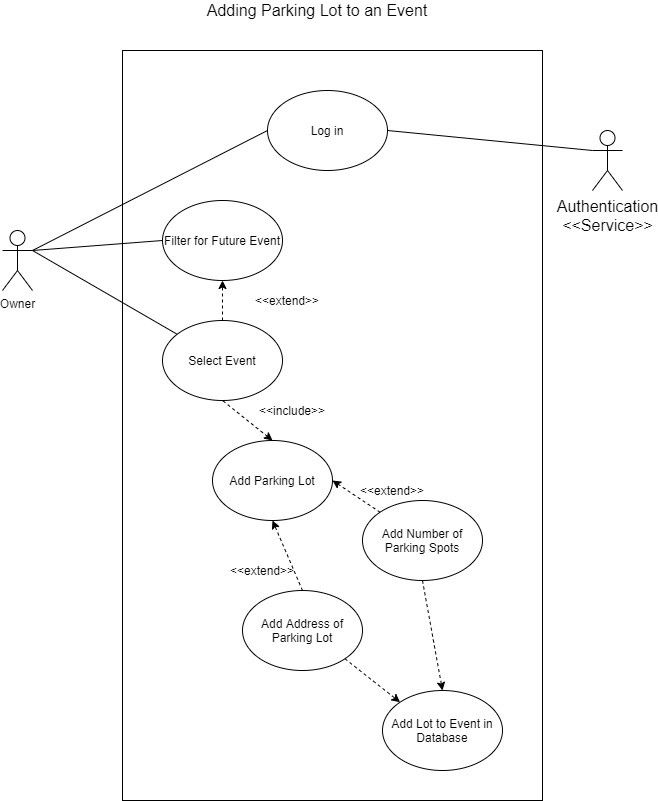
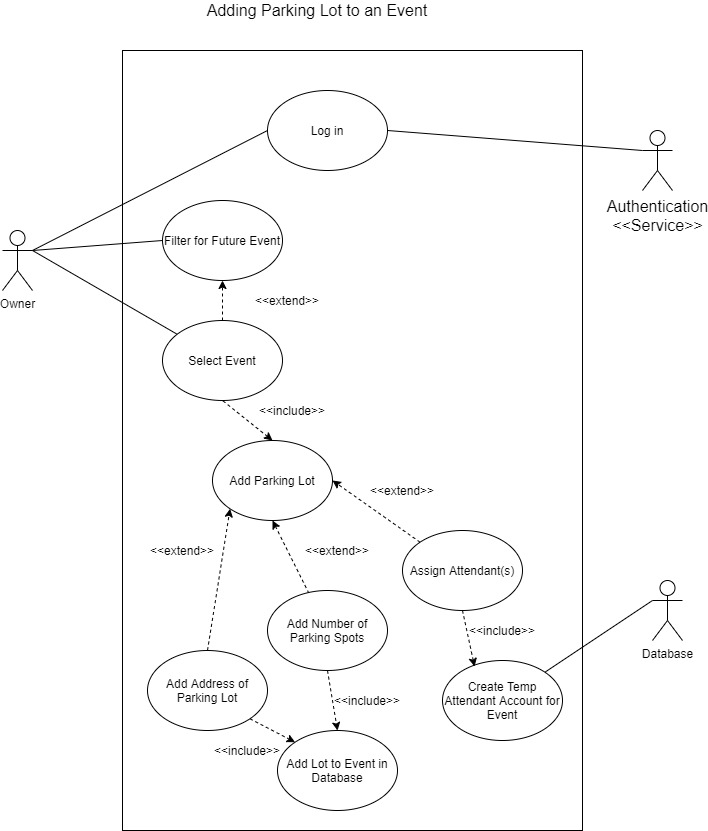
Update to add parking to event, and creation of requirements definition document.

diff --git a/docs/requirementsDefinition.md b/docs/requirementsDefinition.md
@@ -1,0 +1,56 @@
+# Introduction and Context
+
+
+# Users and Their Goals
+## Customer
+Purchase a parking spot for an event. 
+Get directions to their parking spot.
+Receive QR code as proof of purchase.
+Add money to their account.
+
+## Attendant
+Authenticate customer with QR code or from list.
+Show customer where to park.
+
+## Owner
+Add parking lot to Event.
+Receive income from application.
+
+## Manager
+Add events to database.
+Check revenue.
+Pay owners.
+
+## Administrator
+Maintain the application.
+
+# Functional Requirements
+
+
+# Non-Functional Requirements
+
+
+# Future Features
+
+
+# Glossary
+## Customer
+One who uses this application to find and purchase a parking spot so that they may attend an Event.
+
+## Attendant
+Temporary account for the person who verifies that customer has purchased a parking spot and directs them to that spots location.
+
+## Owner
+Person who has legal control of a parking lot and wishes to use this application to gain revenue for its use during an Event.
+
+## Manager
+Person who receives Event information from the University and adds it to the database. Also in charge of distributing money gained through application to owners.
+
+## Event
+A large gathering of people at the University that would necessitate additional parking.
+
+## Administrator
+Person who maintains the application, educates and assists managers when necessary.
+
+## Database
+Server location of Events, parking lots, and user accounts.
